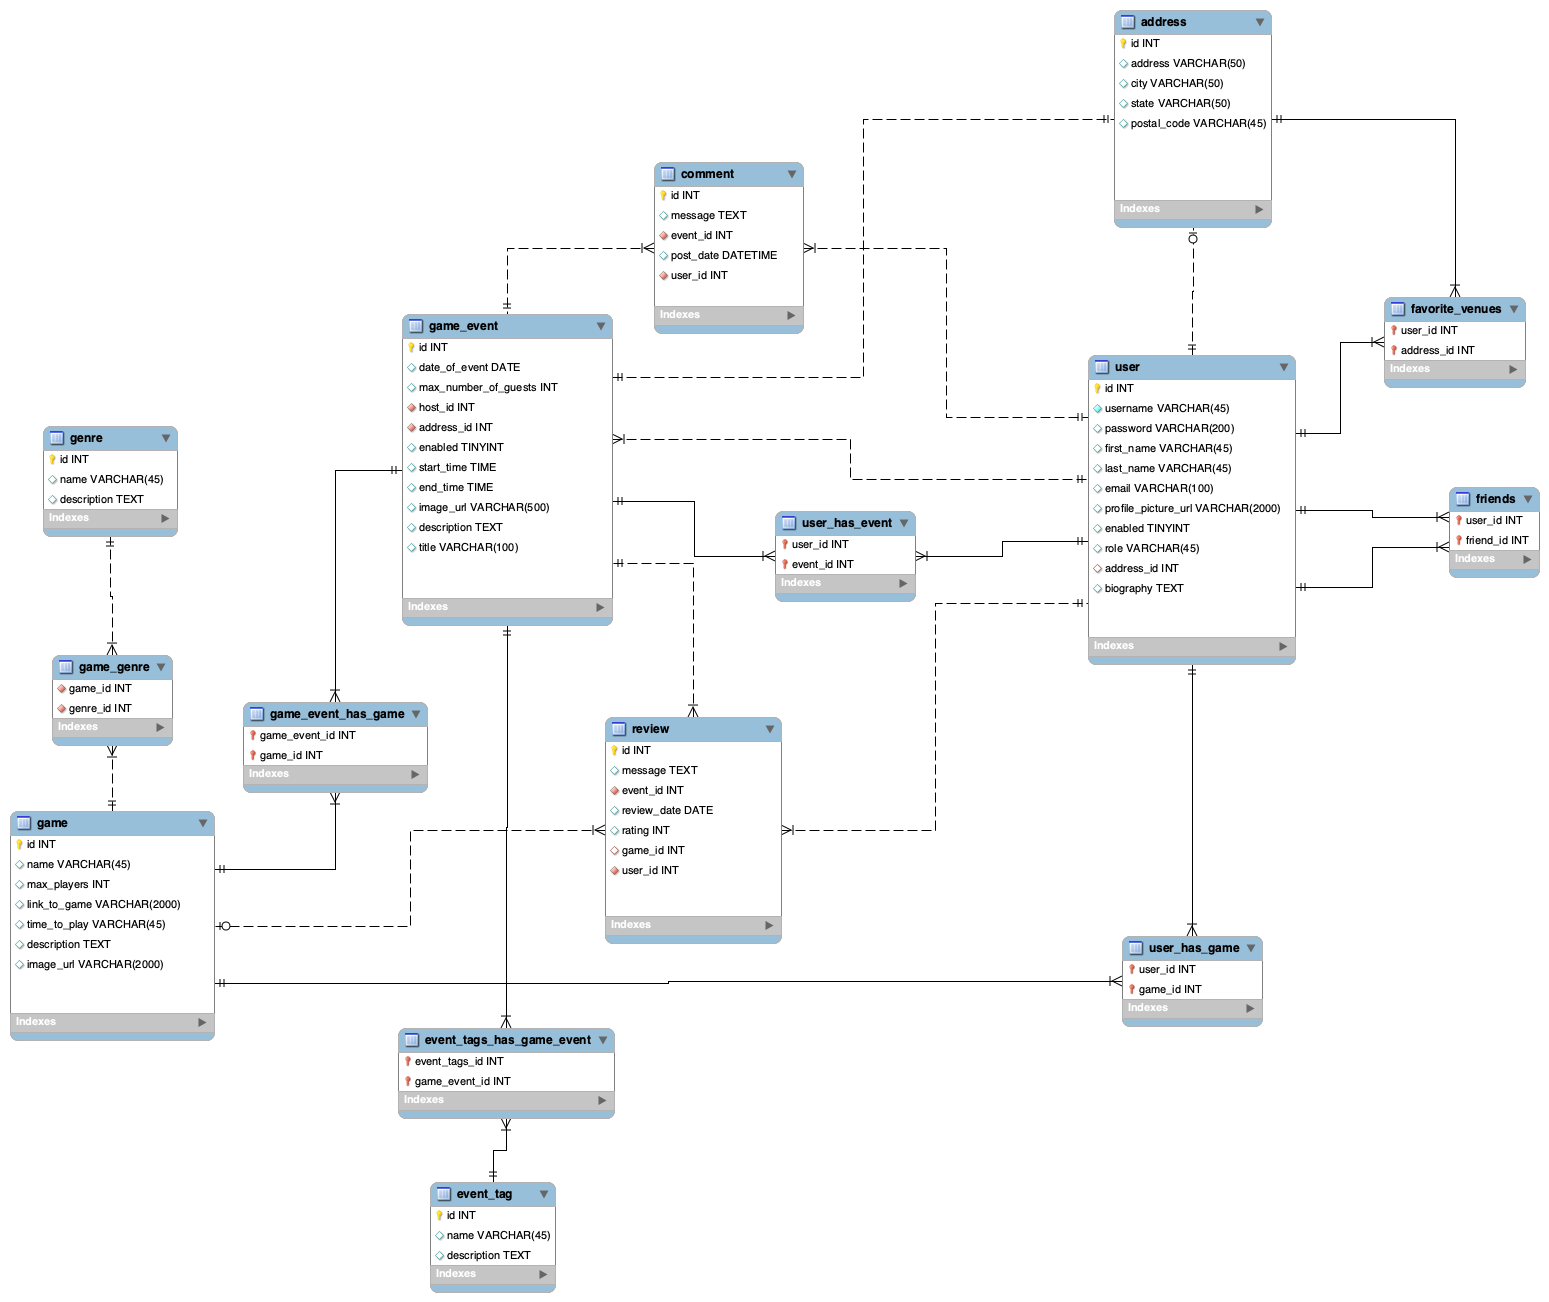
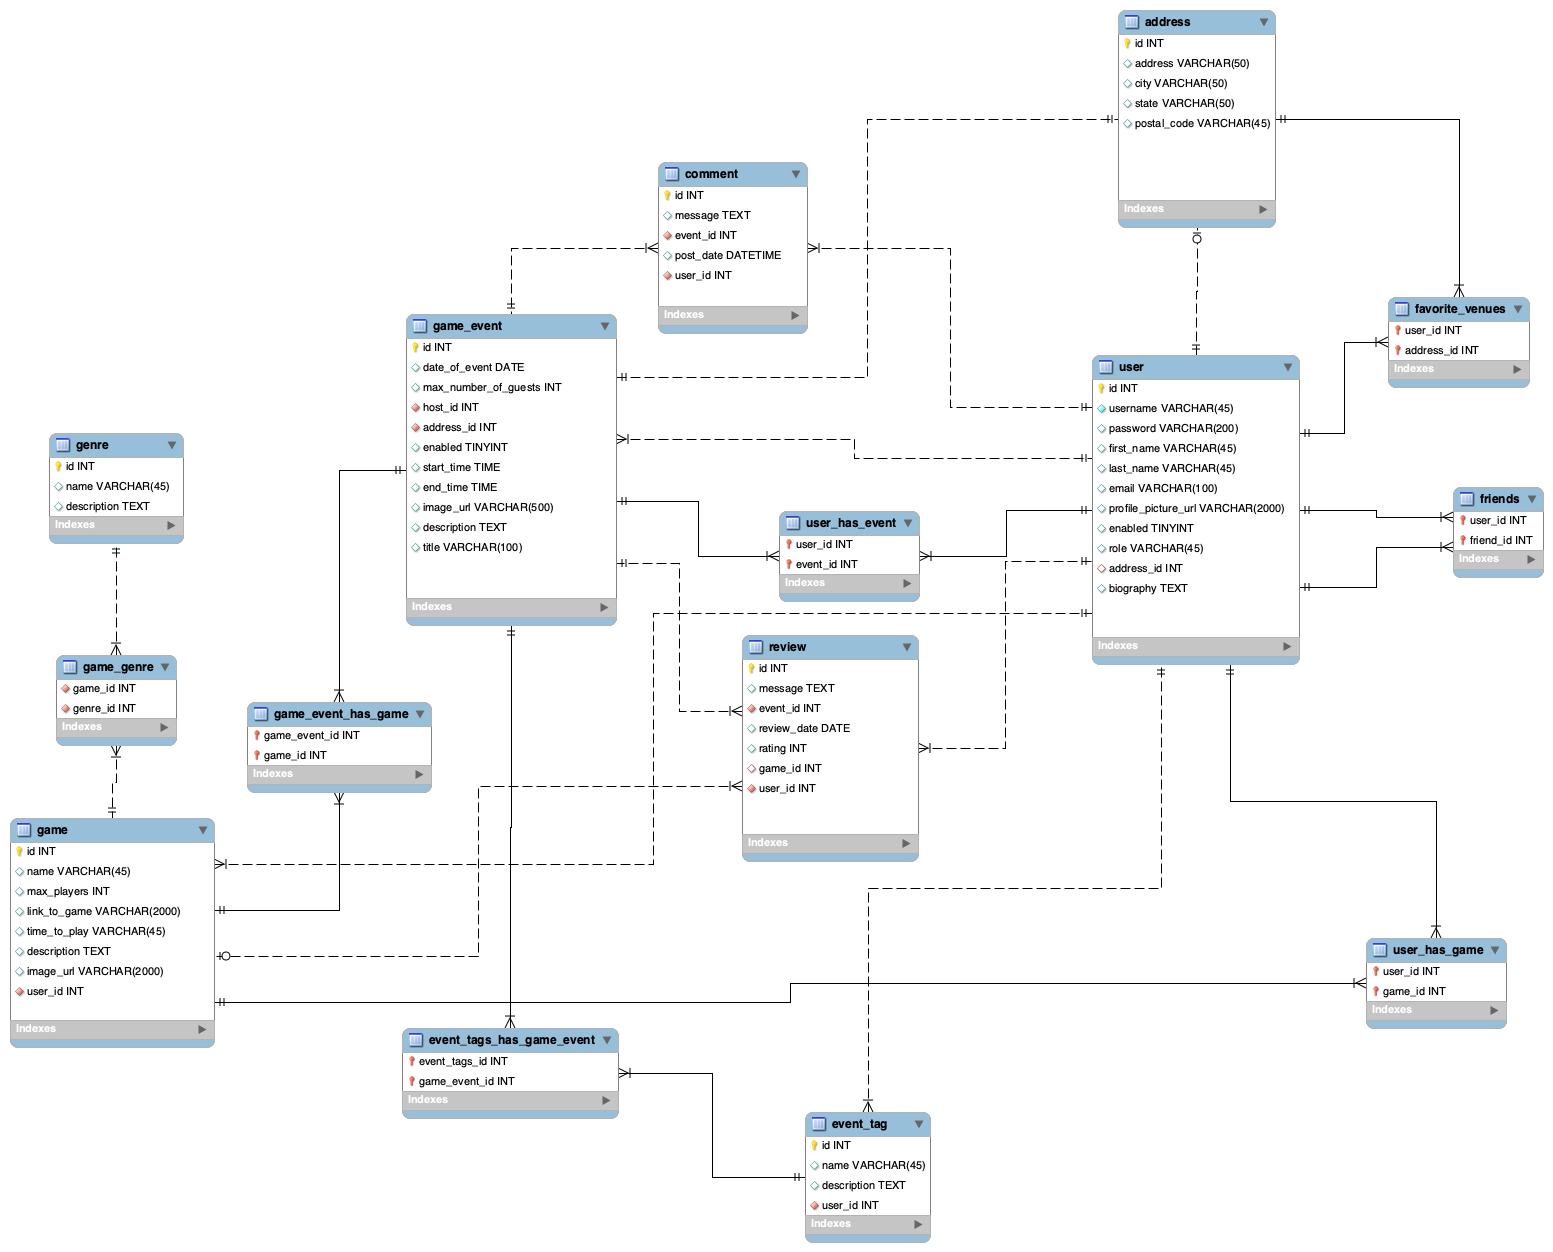
updated game/user mapping and eventTag/user mapping in DB

diff --git a/RollTheDice/src/main/java/com/skilldistillery/rollthedice/services/AddressServiceImpl.java b/RollTheDice/src/main/java/com/skilldistillery/rollthedice/services/AddressServiceImpl.java
@@ -13,10 +13,10 @@ import com.skilldistillery.rollthedice.repositories.UserRepository;
 
 @Service
 public class AddressServiceImpl implements AddressService {
-	
+
 	@Autowired
 	private AddressRepository addressRepo;
-	
+
 	@Autowired
 	private UserRepository userRepo;
 
@@ -44,17 +44,25 @@ public class AddressServiceImpl implements AddressService {
 	@Override
 	public Address updateAddress(String username, Address address, int addressId) {
 		address.setId(addressId);
-		
+
 		User loggedInUser = userRepo.findByUsername(username);
 		List<Address> usersAddresses = loggedInUser.getAddresses();
-		
-		for (Address userAddress : usersAddresses) {
-			if (userAddress.getId() == address.getId() || loggedInUser.getRole().equals("ROLE_ADMIN")) {
-				if (addressRepo.existsById(addressId)) {
-					return addressRepo.saveAndFlush(address);
+		Address homeAddress = loggedInUser.getHomeAddress();
+
+		if (homeAddress.getId() == address.getId() || loggedInUser.getRole().equals("ROLE_ADMIN")) {
+			if (addressRepo.existsById(addressId)) {
+				return addressRepo.saveAndFlush(address);
+			}
+		} else {
+			for (Address userAddress : usersAddresses) {
+				if (userAddress.getId() == address.getId() || loggedInUser.getRole().equals("ROLE_ADMIN")) {
+					if (addressRepo.existsById(addressId)) {
+						return addressRepo.saveAndFlush(address);
+					}
 				}
 			}
-		}	
+		}
+
 		return null;
 	}
 
@@ -64,14 +72,14 @@ public class AddressServiceImpl implements AddressService {
 
 		User loggedInUser = userRepo.findByUsername(username);
 		List<Address> usersAddresses = loggedInUser.getAddresses();
-		
+
 		for (Address userAddress : usersAddresses) {
 			if (userAddress.getId() == addressId || loggedInUser.getRole().equals("ROLE_ADMIN")) {
 				deleted = true;
 				addressRepo.deleteById(addressId);
 				break;
 			}
-		}	
+		}
 		return deleted;
 	}
 
